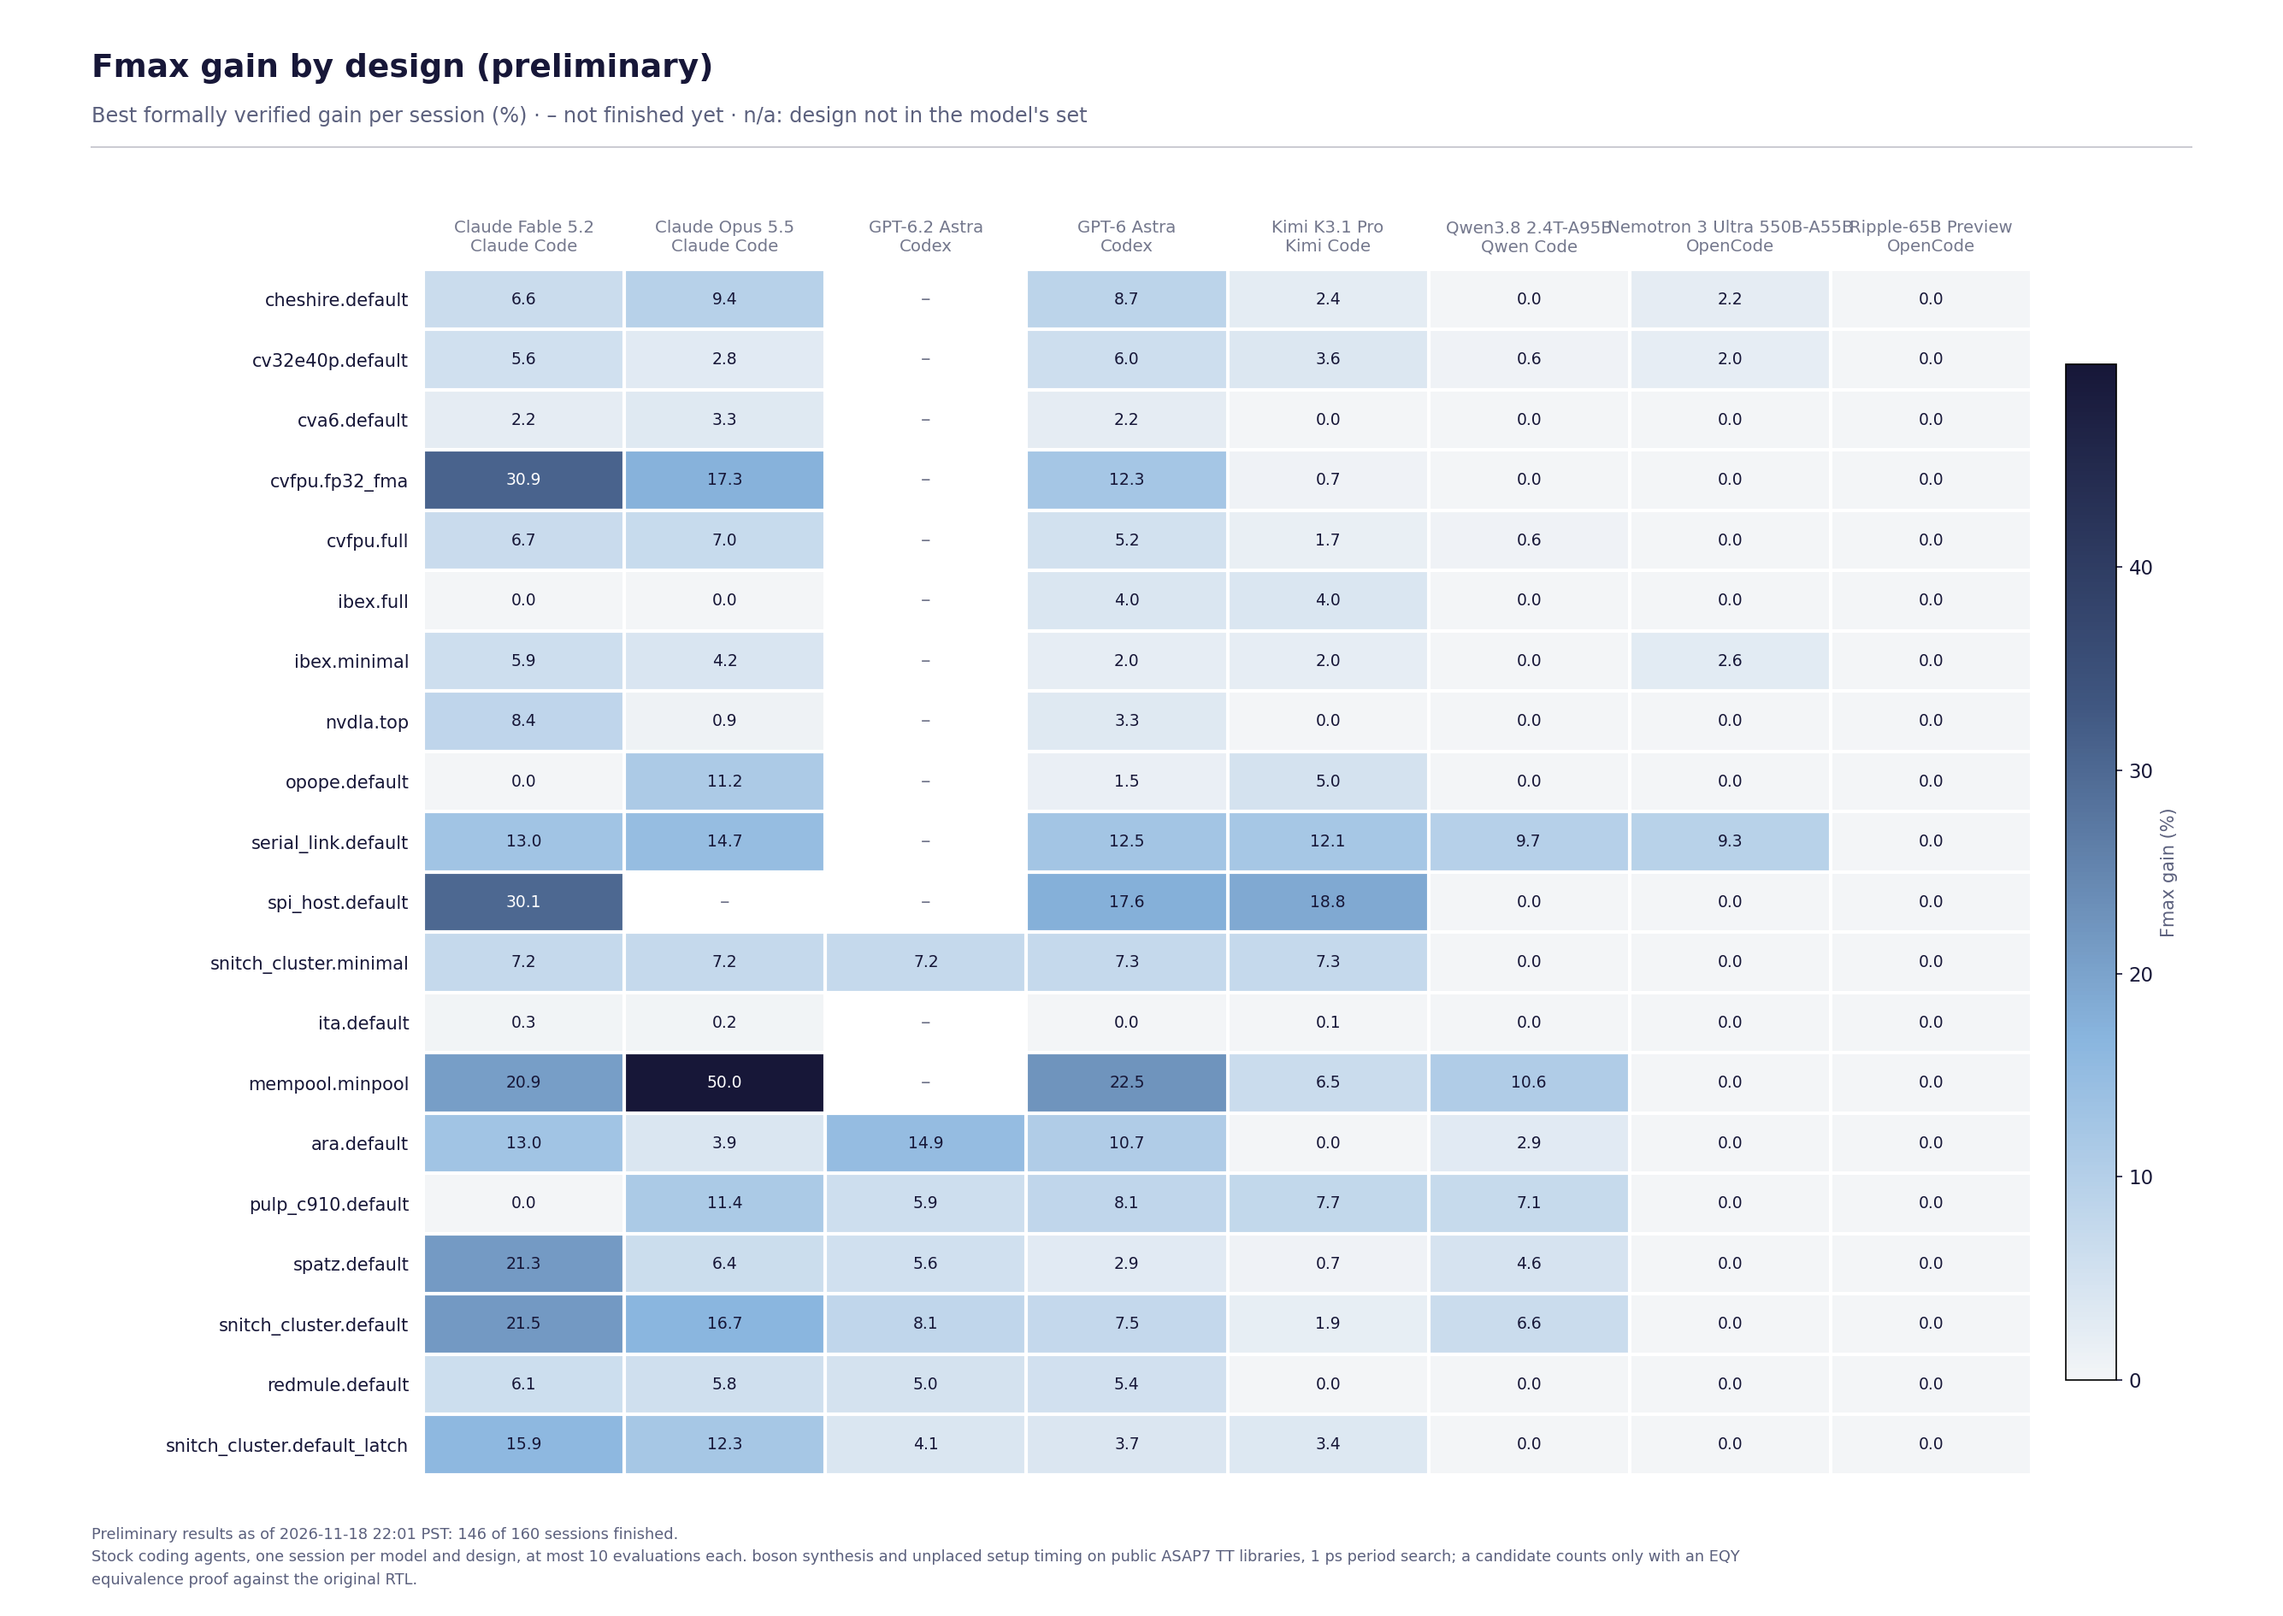
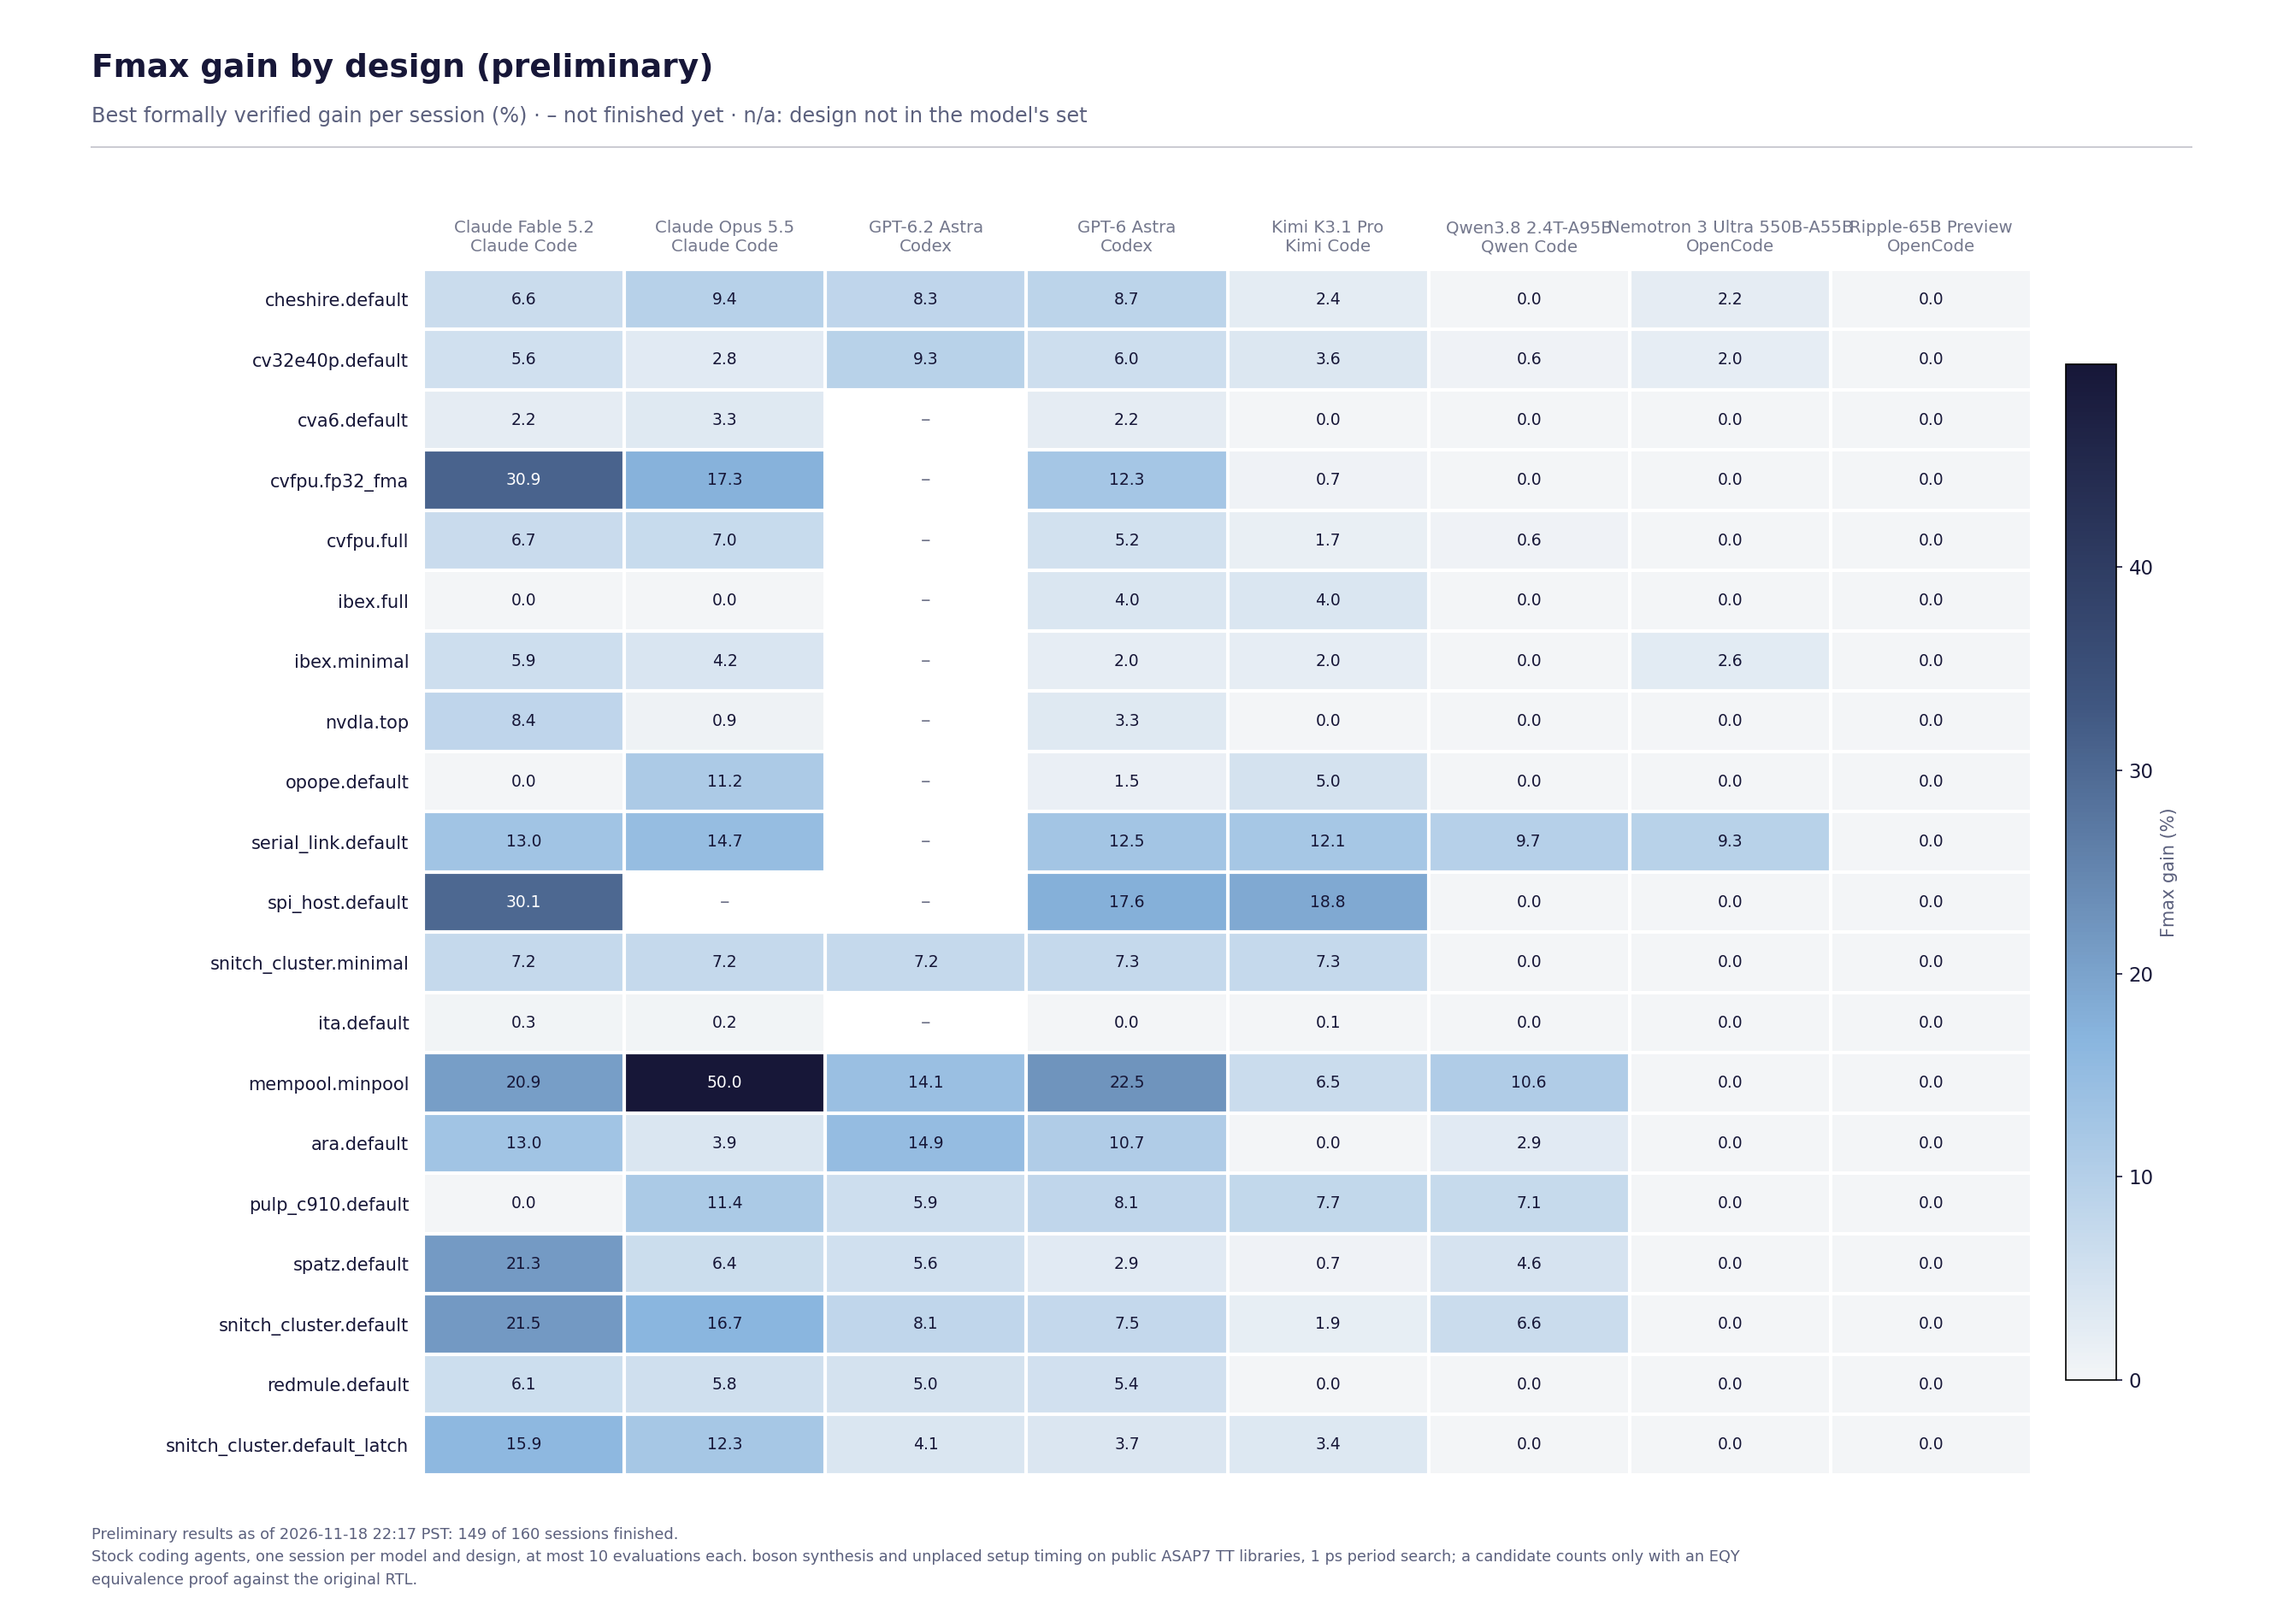
Refresh preliminary results: 149 of 160 sessions finished
Data as of 2026-11-18 22:17 PST.

Changed region(s): [[0.3419, 0.1561, 0.4663, 0.2497], [0.3419, 0.6243, 0.4663, 0.6868]]

diff --git a/README.md b/README.md
@@ -22,7 +22,7 @@ accepted only when it is proven equivalent and faster than the session's best so
 ## Results
 
 <!-- results:start -->
-**Status:** 146 of 160 sessions finished (8 models, 20 designs), as of 2026-11-18 22:01 PST.
+**Status:** 149 of 160 sessions finished (8 models, 20 designs), as of 2026-11-18 22:17 PST.
 
 ### Coverage
 
@@ -34,20 +34,20 @@ accepted only when it is proven equivalent and faster than the session's best so
 | Qwen3.8 2.4T-A95B | Qwen (Alibaba) | Qwen Code 0.27.1 | OpenRouter, one pinned provider (SiliconFlow, FP8) | 20 / 20 |
 | Ripple-65B Preview | Ricursive AI | OpenCode 1.19.5 | Self-hosted (SGLang 0.5.19, BF16) for its first 15 designs; OpenRouter pinned to PrimeIntellect (BF16) for later sessions | 20 / 20 |
 | Nemotron 3 Ultra 550B-A55B | NVIDIA | OpenCode 1.19.5 | OpenRouter, pinned to DeepInfra (FP4), fallbacks disabled | 20 / 20 |
-| GPT-6.2 Astra | OpenAI | Codex 0.169.1 | Official CLI signed in to a subscription; reasoning effort medium, as GPT-6 Astra ran | 7 / 20 |
+| GPT-6.2 Astra | OpenAI | Codex 0.169.1 | Official CLI signed in to a subscription; reasoning effort medium, as GPT-6 Astra ran | 10 / 20 |
 | Claude Opus 5.5 | Anthropic | Claude Code 2.1.322 | Official CLI signed in to a subscription | 19 / 20 |
 
 ### Results by model
 
 | Model | Harness | Designs finished | Fmax gain (geomean) | Normalized score | Designs improved | Mean evaluations | Candidates not proven |
 |---|---|---:|---:|---:|---:|---:|---:|
-| Claude Fable 5.2 | Claude Code | 20 / 20 | +10.39% | 77.1 | 17 / 20 | 5.0 | 42% (42 / 99) |
-| Claude Opus 5.5 | Claude Code | 19 / 20 | +9.26% | 71.4 | 18 / 19 | 4.8 | 40% (36 / 91) |
-| GPT-6.2 Astra | Codex | 7 / 20 | +7.21% | 60.3 | 7 / 7 | 7.7 | 56% (30 / 54) |
-| GPT-6 Astra | Codex | 20 / 20 | +7.04% | 57.6 | 19 / 20 | 8.4 | 27% (45 / 169) |
-| Kimi K3.1 Pro | Kimi Code | 20 / 20 | +3.81% | 34.3 | 16 / 20 | 5.9 | 63% (74 / 118) |
-| Qwen3.8 2.4T-A95B | Qwen Code | 20 / 20 | +2.08% | 12.0 | 8 / 20 | 2.1 | 67% (28 / 42) |
-| Nemotron 3 Ultra 550B-A55B | OpenCode | 20 / 20 | +0.79% | 8.2 | 4 / 20 | 6.2 | 72% (89 / 123) |
+| Claude Fable 5.2 | Claude Code | 20 / 20 | +10.39% | 75.4 | 17 / 20 | 5.0 | 42% (42 / 99) |
+| Claude Opus 5.5 | Claude Code | 19 / 20 | +9.26% | 70.5 | 18 / 19 | 4.8 | 40% (36 / 91) |
+| GPT-6.2 Astra | Codex | 10 / 20 | +8.20% | 63.8 | 10 / 10 | 8.1 | 58% (47 / 81) |
+| GPT-6 Astra | Codex | 20 / 20 | +7.04% | 55.8 | 19 / 20 | 8.4 | 27% (45 / 169) |
+| Kimi K3.1 Pro | Kimi Code | 20 / 20 | +3.81% | 33.2 | 16 / 20 | 5.9 | 63% (74 / 118) |
+| Qwen3.8 2.4T-A95B | Qwen Code | 20 / 20 | +2.08% | 11.8 | 8 / 20 | 2.1 | 67% (28 / 42) |
+| Nemotron 3 Ultra 550B-A55B | OpenCode | 20 / 20 | +0.79% | 7.6 | 4 / 20 | 6.2 | 72% (89 / 123) |
 | Ripple-65B Preview | OpenCode | 20 / 20 | +0.00% | 0.0 | 0 / 20 | 0.1 | 100% (3 / 3) |
 
 Fmax gain is the geometric mean of each finished session's Fmax ratio (baseline period / best accepted period) over the designs that model has finished. Normalized score is the mean of its gain on each design as a percentage of the best gain any model here reached on that design (100: the best result on every design), so every design counts equally however much headroom it had. Models have finished different designs, so this order is provisional, not a like-for-like ranking, until every model covers the same designs. "Candidates not proven" is the share of evaluations whose equivalence proof did not pass.
@@ -56,8 +56,8 @@ Fmax gain is the geometric mean of each finished session's Fmax ratio (baseline 
 
 | Design | Baseline period (ns) | Sessions finished | Best period (ns) | Fmax gain | Best by |
 |---|---:|---:|---:|---:|---|
-| `cheshire.default` | 1.047 | 7 | 0.957 | +9.40% | Claude Opus 5.5 |
-| `cv32e40p.default` | 0.657 | 7 | 0.620 | +5.97% | GPT-6 Astra |
+| `cheshire.default` | 1.047 | 8 | 0.957 | +9.40% | Claude Opus 5.5 |
+| `cv32e40p.default` | 0.657 | 8 | 0.601 | +9.32% | GPT-6.2 Astra |
 | `cva6.default` | 1.038 | 7 | 1.005 | +3.28% | Claude Opus 5.5 |
 | `cvfpu.fp32_fma` | 1.401 | 7 | 1.070 | +30.93% | Claude Fable 5.2 |
 | `cvfpu.full` | 2.114 | 7 | 1.976 | +6.98% | Claude Opus 5.5 |
@@ -69,7 +69,7 @@ Fmax gain is the geometric mean of each finished session's Fmax ratio (baseline 
 | `spi_host.default` | 0.475 | 6 | 0.365 | +30.14% | Claude Fable 5.2 |
 | `snitch_cluster.minimal` | 1.288 | 8 | 1.200 | +7.33% | GPT-6 Astra, Kimi K3.1 Pro |
 | `ita.default` | 0.903 | 7 | 0.900 | +0.33% | Claude Fable 5.2 |
-| `mempool.minpool` | 2.869 | 7 | 1.913 | +49.97% | Claude Opus 5.5 |
+| `mempool.minpool` | 2.869 | 8 | 1.913 | +49.97% | Claude Opus 5.5 |
 | `ara.default` | 1.064 | 8 | 0.926 | +14.90% | GPT-6.2 Astra |
 | `pulp_c910.default` | 1.005 | 8 | 0.902 | +11.42% | Claude Opus 5.5 |
 | `spatz.default` | 2.266 | 8 | 1.868 | +21.31% | Claude Fable 5.2 |
@@ -81,9 +81,9 @@ Fmax gain is the geometric mean of each finished session's Fmax ratio (baseline 
 
 Counts over every finished session of the models above. They describe what happened; with one session per model and design they do not establish causes or rankings.
 
-- 699 candidates evaluated: 202 accepted, 142 proven equivalent but not faster than the session's best, 347 not proven (253 with a partition EQY could not prove, 40 at the proof deadline, 48 over the proof memory budget, 6 for another reason), 8 failed to compile or measure.
-- Of 146 finished sessions, 98 ended with the agent finishing on its own, 47 ran to the time budget and 1 ended with an agent error.
-- Sessions used 4.8 of the 10 allowed evaluations on average; 22 used all 10.
+- 726 candidates evaluated: 207 accepted, 147 proven equivalent but not faster than the session's best, 364 not proven (265 with a partition EQY could not prove, 41 at the proof deadline, 52 over the proof memory budget, 6 for another reason), 8 failed to compile or measure.
+- Of 149 finished sessions, 99 ended with the agent finishing on its own, 49 ran to the time budget and 1 ended with an agent error.
+- Sessions used 4.9 of the 10 allowed evaluations on average; 24 used all 10.
 - Largest single gain so far: `mempool.minpool` by Claude Opus 5.5, 2.869 ns to 1.913 ns (+49.97% Fmax).
 <!-- results:end -->
 
